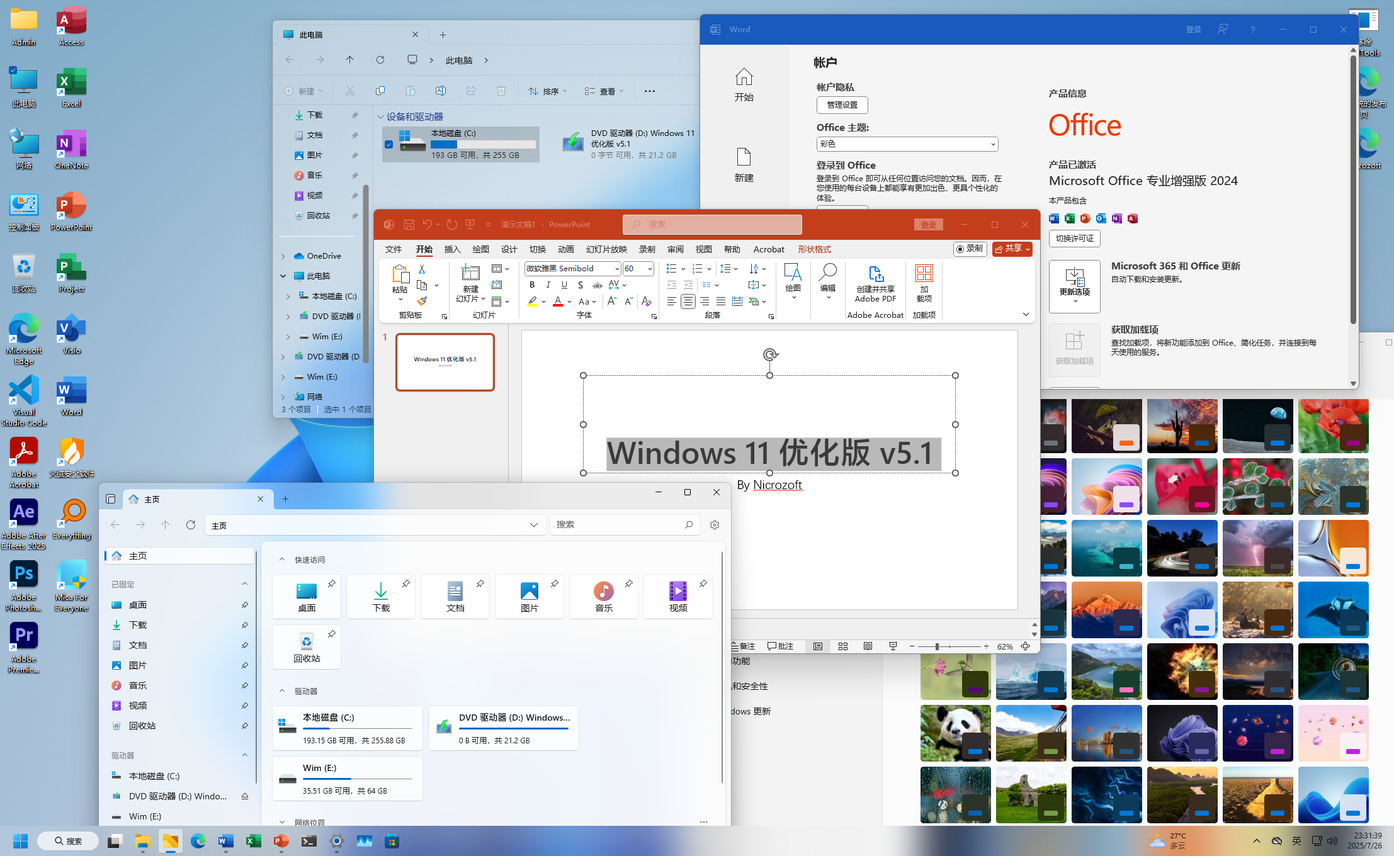
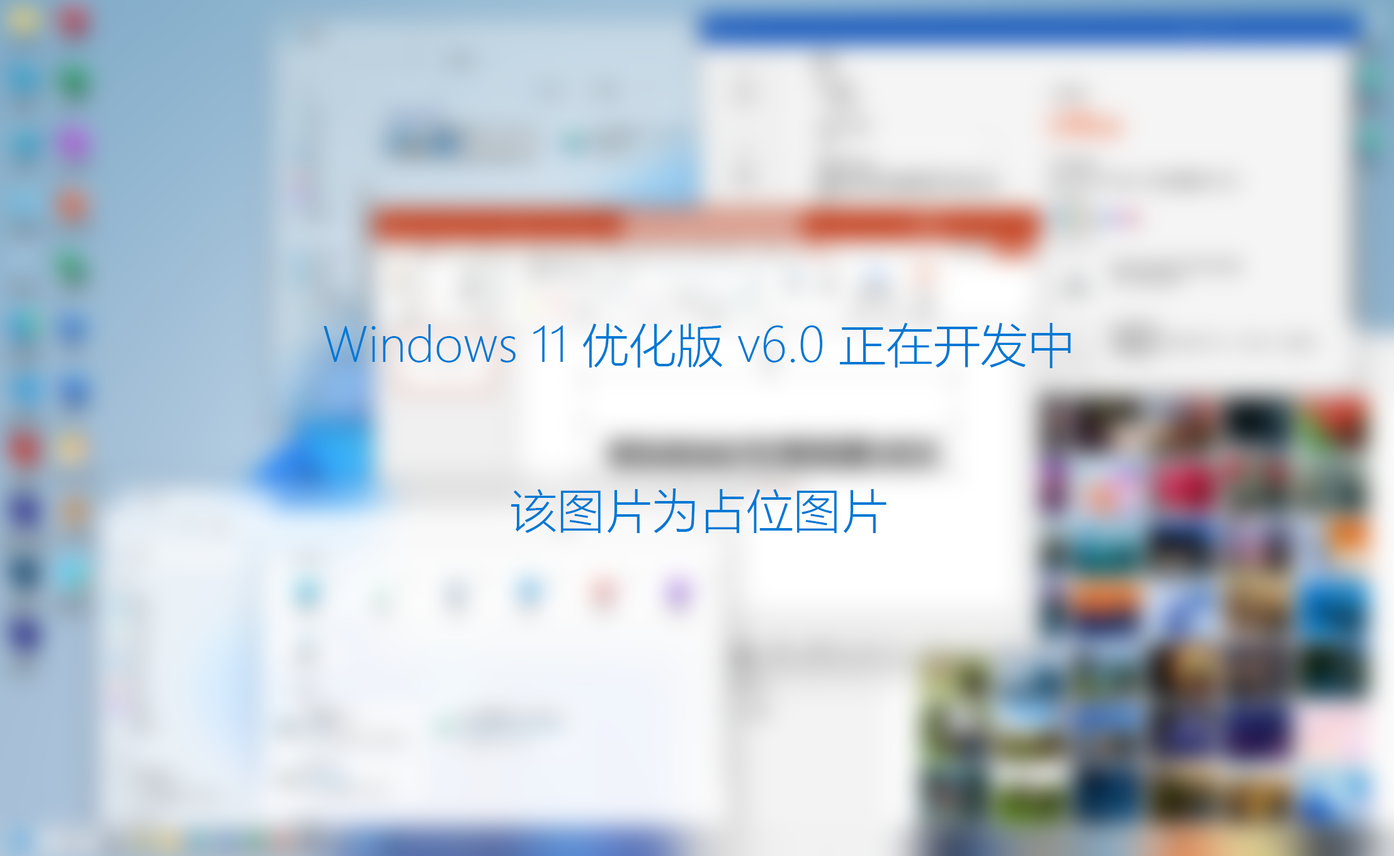
Update Files

diff --git a/win11ext.html b/win11ext.html
@@ -10,24 +10,25 @@
     <link rel="shortcut icon" type="image/png" href="img/NZ.ico">
 </head>
 <body>
-    <!-- Page Loader -->
-    <div id="loader-wrapper">
-        <div id="loader"></div>
+<!-- Page Loader -->
+<div id="loader-wrapper">
+    <div id="loader"></div>
 
-        <div class="loader-section section-left"></div>
-        <div class="loader-section section-right"></div>
+    <div class="loader-section section-left"></div>
+    <div class="loader-section section-right"></div>
 
-    </div>
-                            
-    <nav class="navbar navbar-expand-lg">
-        <div class="container-fluid">
-            <a class="navbar-brand" href="#">
-                Nicrozoft
-            </a>
-            <button class="navbar-toggler" type="button" data-toggle="collapse" data-target="#navbarSupportedContent" aria-controls="navbarSupportedContent" aria-expanded="false" aria-label="Toggle navigation">
-                <i class="fas fa-bars"></i>
-            </button>
-            <div class="collapse navbar-collapse" id="navbarSupportedContent">
+</div>
+
+<nav class="navbar navbar-expand-lg">
+    <div class="container-fluid">
+        <a class="navbar-brand" href="#">
+            Nicrozoft
+        </a>
+        <button class="navbar-toggler" type="button" data-toggle="collapse" data-target="#navbarSupportedContent"
+                aria-controls="navbarSupportedContent" aria-expanded="false" aria-label="Toggle navigation">
+            <i class="fas fa-bars"></i>
+        </button>
+        <div class="collapse navbar-collapse" id="navbarSupportedContent">
             <ul class="navbar-nav ml-auto mb-2 mb-lg-0">
                 <li class="nav-item">
                     <a class="nav-link nav-link-1" aria-current="page" href="index.html">主页</a>
@@ -54,144 +55,221 @@
                     <a class="nav-link" href="javascript:window.history.back(-1)" target="_self">返回</a>
                 </li>
             </ul>
-            </div>
         </div>
-    </nav>
-
-    <div class="tm-hero d-flex justify-content-center align-items-center" data-parallax="scroll" data-image-src="img/BG.jpg">
     </div>
+</nav>
 
-    <div class="container-fluid tm-container-content tm-mt-60">
-        <div class="row mb-4">
-            <h2 class="col-12 tm-text-primary">Windows 11 优化版 v5.1</h2>
+<div class="tm-hero d-flex justify-content-center align-items-center" data-parallax="scroll"
+     data-image-src="img/BG.jpg">
+</div>
+
+<div class="container-fluid tm-container-content tm-mt-60">
+    <div class="row mb-4">
+        <h2 class="col-12 tm-text-primary">Windows 11 优化版</h2>
+    </div>
+    <div class="row tm-mb-90">
+        <div class="col-xl-8 col-lg-7 col-md-6 col-sm-12">
+            <img src="img/windows11ext.png" alt="Image" class="img-fluid">
         </div>
-        <div class="row tm-mb-90">
-            <div class="col-xl-8 col-lg-7 col-md-6 col-sm-12">
-                <img src="img/windows11ext.png" alt="Image" class="img-fluid">
-            </div>
-            <div class="col-xl-4 col-lg-5 col-md-6 col-sm-12">
-                <div class="tm-bg-gray tm-video-details">
-                    <p class="mb-4">
-                        Windows 11 优化版 64位。<br>系统基于 Windows 11 24H2 专业工作站版。<br>此系统并不基于任何其他修改版。除安装程序外, 也没有参考其他任何修改版。只有安装程序使用了 Rectify 11 的部分文件。<br>此系统使用 Dism 封装，并使用 Wimlib-ImageX (1.0 使用 Dism++) 将镜像转为 ESD 格式并添加卷信息。我们坚决抵制任何流氓软件！抵制流氓封装工具 Easy Sysprep！<br>系统更改：<br>1.添加了 77 个主题。<br>2.永久激活了系统。<br>3.调整了桌面图标。<br>4.默认显示文件扩展名。<br>5.安装了 Microsoft Office Professional Plus 2021 并使用 Ohook 模式永久激活（非 KMS）。<br>6.安装了 Visual Studio Code, PowerToys, Files App, Dev Home。<br>7.为 VSCode 安装了 Python, C++, Code Runner 插件。<br>8.安装了 Mica for Everyone。<br>9.安装了火绒安全软件。<br>10.安装程序样式大幅调整。<br>11.为 Edge 安装了 Adguard 插件。<br>12.【2.0 内容】新增 8 个主题, 其中包含 “Nebulas in 4K” 主题。<br>13.【2.0 内容】修复了 Mica for Everyone 无法启动的问题。<br>14.【2.0 内容】更新了 Files App。<br>15.【2.0 内容】将 Files App 设为默认资源管理器。<br>16.【2.0 内容】安装了 Adobe Photoshop 2023。<br>17.【2.0 内容】为 Edge 设置了圆角标签页。<br>18.【2.0 内容】一些系统和应用设置微调。<br>19.【3.0 内容】安装了新版微软雅黑 (11.3.0)。<br>20.【3.0 内容】安装了 translucentTB 并将任务栏设为 Acrylic 半透明。<br>21.【3.0 内容】安装了 ExplorerBlurMica，将资源管理器设为全窗口 Acrylic。<br>22.【3.0 内容】更新了系统、VSCode、PowerToys 和大量 Microsoft Store 应用。<br>23.【3.0 内容】安装了画图 3D。<br>24.【3.0 内容】添加了华为 MateBook 16s 的 OEM 主题。<br>25.【3.0 内容】为 Microsoft Edge 开启了 Mica 效果，并设置了垂直标签页。<br>26.【4.0 内容】更新了系统和软件。<br>27.【4.0 内容】安装了 Visio 和 Project 并永久激活。<br>28.【4.0 内容】调整了资源管理器透明度以保证文字清晰可见。<br>29.【4.0 内容】安装了 Adobe Photoshop 2024（25.9）。（之前的版本为 2023）<br>30.【4.0 内容】优化了字体设置，使字体观感更加舒适，同时修复了字号重复的问题。<br>31.【4.0 内容】安装了火绒安全软件 6.0。32.【5.0 内容】更新系统版本至 24H2 的 2025 01 累积更新。<br>33.【5.0 内容】更新系统的各个软件至最新版本。<br>34.【5.0 内容】将微软雅黑的 Regular，Light，Bold 三个字号恢复至原版。<br>35.【5.0 内容】安装 Adobe Acrobat 2024 和 Adobe Premiere 2024。<br>36.【5.0 内容】添加 Windows Server 2025 和 Microsoft Community 的主题。<br>37.【5.0 内容】内置一个工具，用于在物理机安装后移除 VMware Tools 并清理导致计算机被误判为虚拟机的注册表，放置在桌面右上角，该程序开源至 Github。<br>38.【5.0 内容】内置了常用文件搜索软件 Everything。<br>39.【5.1 内容】更新了系统和大部分软件。<br>40.【5.1 内容】将 Office 升级至 Office 2024 专业增强版。<br>41.【5.1 内容】将 Adobe 软件（Acrobat Pro、Photoshop、Premiere）升级至 2025 版本，同时加装 After Effects。<br>42.【5.1 内容】集成了所有版本的 Microsoft Visual C++ Runtime。<br><br>该镜像并没有设置跳过 Windows 11 硬件检查的内容。因此你的计算机(或虚拟机)必须满足 Windows 11 硬件要求。<br>如果你确实要在不满足 Windows 11 硬件要求的计算机上安装该系统，你需要按 Shift+F10, 然后输入 SkipCheck (这是 Nicrozoft 在 boot.wim\Windows\System32 下放置的一个 bat 脚本，用于跳过硬件检查), 就可以继续安装了。<br><br><font color="#FF0000">© Nicrozoft Corporation, 保留所有权利。<br>未经 Nicrozoft 允许, 禁止转载或修改, 否则 Nicrozoft 必将追究！</font>
-                    </p>
-                    <h5 class="text-center mb-4"><font color="#0078D4">
-                        以下为 5.1 版本的【镜像】文件，文件格式为[.iso]
-                    </font></h5>
-                    <h5 class="text-center mb-4"><font color="#FF0000">
-                        请注意：123 网盘链接的文件可以在手机端免费下载！请不要白白给网盘送钱！<br>如果你喜欢我的产品，想要赞助支持我，请在我的 B 站主页为我充电！
-                    </font></h5>
-                    <div class="text-center mb-5">
-                        <a href="checksums/win11ext_5.1_iso.txt" class="btn btn-primary tm-btn-big">查看文件校验和</a>
-                    </div>
-                    <div class="text-center mb-5">
-                        <a href="https://ntdrv.link/d/shared/Software/Nicrozoft/Windows_11_Extended_ProfessionalWorkstation_v5.1_Nicrozoft.iso" class="btn btn-primary tm-btn-big">NTDrv 网盘链接</a>
-                    </div>
-                    <div class="text-center mb-5">
-                        <a href="https://www.123912.com/s/kb7cjv-bHve3" class="btn btn-primary tm-btn-big">123 网盘链接</a>
-                    </div>
-                    <div class="text-center mb-5">
-                        <a href="https://www.123865.com/s/kb7cjv-bHve3" class="btn btn-primary tm-btn-big">123 网盘链接 （备用链接）</a>
-                    </div>
-                    <br><br>
-                    <div class="text-center mb-5">
-                        <a href="img/windows11ext.png" class="btn btn-primary tm-btn-big">下载 5.1 系统截图</a>
-                    </div>
-                    <br><br>
-                    <div class="text-center mb-5">
-                        <a href="https://www.bilibili.com/video/BV1gs8hzaELm" class="btn btn-primary tm-btn-big">观看该系统的 5.1 版本的介绍及演示视频<br>（记得点赞投币收藏关注）</a>
-                    </div>
-                    <h5 class="text-center mb-4"><font color="#0078D4">
-                        以下是早期版本的内容
-                    </font></h5>
-                    <h5 class="text-center mb-4"><font color="#0078D4">
-                        以下为 5.0.1 版本的【镜像】文件，文件格式为[.iso]
-                    </font></h5>
-                    <h5 class="text-center mb-4"><font color="#FF0000">
-                        相对于 5.0 版本，5.0.1 版本仅是修复了安装程序的一些问题，系统功能完全相同，因此已安装 5.0 的用户不需要安装 5.0.1。
-                    </font></h5>
-                    <div class="text-center mb-5">
-                        <a href="checksums/win11ext_5.0.1_iso.txt" class="btn btn-primary tm-btn-big">查看文件校验和</a>
-                    </div>
-                    <div class="text-center mb-5">
-                        <a href="https://pan.huang1111.cn/s/GmNgFW?path=%2Fwin11ext%2Fv5.0.1%2FISO" class="btn btn-primary tm-btn-big">huang1111 网盘链接</a>
-                    </div>
-                    <div class="text-center mb-5">
-                        <a href="https://pan.quark.cn/s/f238528f69a4" class="btn btn-primary tm-btn-big">夸克网盘链接</a>
-                    </div>
-                    <div class="text-center mb-5">
-                        <a href="https://www.123912.com/s/kb7cjv-ZiVc3" class="btn btn-primary tm-btn-big">123 网盘链接</a>
-                    </div>
-                    <div class="text-center mb-5">
-                        <a href="https://www.123865.com/s/kb7cjv-ZiVc3" class="btn btn-primary tm-btn-big">123 网盘链接 （备用链接）</a>
-                    </div>
-                    <br><br>
-                    <div class="text-center mb-5">
-                        <a href="https://www.bilibili.com/video/BV1difDY4EBa/" class="btn btn-primary tm-btn-big">观看该系统的 5.0 版本的介绍及演示视频<br>（记得点赞投币收藏关注）</a>
-                    </div>
-                    <br><br>
-                    <h5 class="text-center mb-4"><font color="#FF0000">
-                        4.0 及更早版本的产品文件已遗失，不可下载。
-                    </font></h5>
-                    <p class="mb-4">
-                        十分感谢 WinBetaUser 在 bilibili 上测评了该系统。
-                    </p>
-                    <div class="text-center mb-5">
-                        <a href="https://www.bilibili.com/video/BV1Lx4y1S73H" class="btn btn-primary tm-btn-big">观看 WinBetaUser 为此系统的 3.0 版本制作的测评视频<br>（记得点赞投币收藏关注）</a>
-                    </div>
-                    <div class="text-center mb-5">
-                        <a href="https://www.bilibili.com/video/BV1694y1g7yP" class="btn btn-primary tm-btn-big">观看 WinBetaUser 为此系统的 2.0 版本制作的测评视频<br>（记得点赞投币收藏关注）</a>
-                    </div>
+        <div class="col-xl-4 col-lg-5 col-md-6 col-sm-12">
+            <div class="tm-bg-gray tm-video-details">
+                <h4 class="text-center mb-4"><font color="#0078D4">
+                    Windows 11 优化版 x64<br>25H2 专业工作站版 v6.0
+                </font></h4>
+                <p class="mb-4">
+                    该系统在 v6.0 版本重制，从原版系统重新制作，重制后分为完整版本和基本版本，完整版本与重制前相似，但对系统进一步优化；
+                    基本版本未预装 Office、Adobe 等大型软件，仅预装系统优化必要的软件，具有更小的体积。<br>
+                    此系统并不基于任何其他修改版。除安装程序外,也没有参考其他任何修改版。只有安装程序使用了 Rectify 11 的部分文件，
+                    使其更加美观。同时该版本修复了安装程序启动管理器被吊销的问题。<br>
+                    此系统使用 Windows 部署映像服务和管理工具 (Dism) 封装，并使用
+                    Wimlib-ImageX 将镜像转为 ESD 格式并添加卷信息。<br>
+                    系统更改:<br>
+                    1.添加 80+ 个主题。<br>
+                    2.集成了所有版本的 Microsoft Visual C++ Runtime。<br>
+                    3.系统设置微调。<br>
+                    4.为 Edge 添加了 Adguard 和 Tampermonkey 插件。<br>
+                    5.安装了 ExplorerBlurMica，将资源管理器设为全窗口 Acrylic。<br>
+                    6.安装了 Mica for Everyone，为各种窗口的框架设置为 Acrylic 材质。<br>
+                    7.安装了新版微软雅黑 (11.3.0) 的 SemiBold、SemiLight、Heavy 三个字号。<br>
+                    8.安装了 translucentTB 并将任务栏设为 Acrylic 半透明。<br>
+                    9.集成了 .NET 8.0 和 9.0，以及 .NET Framework 4.8.1 和 3.5 运行库。<br>
+                    10.安装了 NanaZip（一款基于 7-Zip 并使用 Fluent 设计重构界面的压缩解压缩软件）。<br>
+                    11.调整了 CPU 的调度偏好，提升了性能。<br>
+                    12.内置的激活工具由 HEU 改为 Nicrozoft Activator（基于 MAS）。<br>
+                    完整版额外内容:<br>
+                    1.安装了 Office 2024 专业增强版，并使用 Ohook 模式永久激活。<br>
+                    2.安装了 Adobe 2025 中的 Photoshop、Premiere、After Effects、Acrobat 四款软件。<br>
+                    3.安装了 Files App。<br>
+                    4.安装了 Visual Studio Code 并安装一些插件。<br>
+                    5.安装了 PowerToys。<br>
+                    6.安装了 Everything。<br>
+                    7.集成了 Python 3.12、MinGW 15.1.0 x64 和 MinGW 15.1.0 x86。<br>
+                    <br><font color="#FF0000">© Nicrozoft Dev Group,
+                    保留所有权利。<br>未经 Nicrozoft 允许, 禁止转载或修改该镜像、视频等内容, 否则 Nicrozoft 必将追究其责任！</font>
+                </p>
+                <div class="text-center mb-5">
+                    <a href="https://afdian.com/a/nicrozoft" class="btn btn-primary tm-btn-big">赞助 Nicrozoft</a>
+                </div>
+                <div class="text-center mb-5">
+                    <a href="https://qm.qq.com/q/m8hlYNeNqg" class="btn btn-primary tm-btn-big">参与该版本的内测</a>
+                </div>
+                <h5 class="text-center mb-4"><font color="#0078D4">
+                    以下是重制前版本(1.0 ~ 5.1)的内容，仅供参考。
+                </font></h5>
+                <p class="mb-4">
+                    Windows 11 优化版 64位。<br>系统基于 Windows 11 24H2 专业工作站版。<br>此系统并不基于任何其他修改版。除安装程序外,
+                    也没有参考其他任何修改版。只有安装程序使用了 Rectify 11 的部分文件。<br>此系统使用 Dism 封装，并使用
+                    Wimlib-ImageX (1.0 使用 Dism++) 将镜像转为 ESD 格式并添加卷信息。我们坚决抵制任何流氓软件！抵制流氓封装工具
+                    Easy Sysprep！<br>系统更改：<br>1.添加了 77 个主题。<br>2.永久激活了系统。<br>3.调整了桌面图标。<br>4.默认显示文件扩展名。<br>5.安装了
+                    Microsoft Office Professional Plus 2021 并使用 Ohook 模式永久激活（非 KMS）。<br>6.安装了 Visual Studio
+                    Code, PowerToys, Files App, Dev Home。<br>7.为 VSCode 安装了 Python, C++, Code Runner 插件。<br>8.安装了
+                    Mica for Everyone。<br>9.安装了火绒安全软件。<br>10.安装程序样式大幅调整。<br>11.为 Edge 安装了 Adguard
+                    插件。<br>12.【2.0 内容】新增 8 个主题, 其中包含 “Nebulas in 4K” 主题。<br>13.【2.0 内容】修复了 Mica for
+                    Everyone 无法启动的问题。<br>14.【2.0 内容】更新了 Files App。<br>15.【2.0 内容】将 Files App 设为默认资源管理器。<br>16.【2.0
+                    内容】安装了 Adobe Photoshop 2023。<br>17.【2.0 内容】为 Edge 设置了圆角标签页。<br>18.【2.0
+                    内容】一些系统和应用设置微调。<br>19.【3.0 内容】安装了新版微软雅黑 (11.3.0)。<br>20.【3.0 内容】安装了
+                    translucentTB 并将任务栏设为 Acrylic 半透明。<br>21.【3.0 内容】安装了 ExplorerBlurMica，将资源管理器设为全窗口
+                    Acrylic。<br>22.【3.0 内容】更新了系统、VSCode、PowerToys 和大量 Microsoft Store 应用。<br>23.【3.0
+                    内容】安装了画图 3D。<br>24.【3.0 内容】添加了华为 MateBook 16s 的 OEM 主题。<br>25.【3.0 内容】为
+                    Microsoft Edge 开启了 Mica 效果，并设置了垂直标签页。<br>26.【4.0 内容】更新了系统和软件。<br>27.【4.0
+                    内容】安装了 Visio 和 Project 并永久激活。<br>28.【4.0
+                    内容】调整了资源管理器透明度以保证文字清晰可见。<br>29.【4.0 内容】安装了 Adobe Photoshop
+                    2024（25.9）。（之前的版本为 2023）<br>30.【4.0 内容】优化了字体设置，使字体观感更加舒适，同时修复了字号重复的问题。<br>31.【4.0
+                    内容】安装了火绒安全软件 6.0。32.【5.0 内容】更新系统版本至 24H2 的 2025 01 累积更新。<br>33.【5.0
+                    内容】更新系统的各个软件至最新版本。<br>34.【5.0 内容】将微软雅黑的 Regular，Light，Bold 三个字号恢复至原版。<br>35.【5.0
+                    内容】安装 Adobe Acrobat 2024 和 Adobe Premiere 2024。<br>36.【5.0 内容】添加 Windows Server 2025 和
+                    Microsoft Community 的主题。<br>37.【5.0 内容】内置一个工具，用于在物理机安装后移除 VMware Tools
+                    并清理导致计算机被误判为虚拟机的注册表，放置在桌面右上角，该程序开源至 Github。<br>38.【5.0
+                    内容】内置了常用文件搜索软件 Everything。<br>39.【5.1 内容】更新了系统和大部分软件。<br>40.【5.1 内容】将
+                    Office 升级至 Office 2024 专业增强版。<br>41.【5.1 内容】将 Adobe 软件（Acrobat
+                    Pro、Photoshop、Premiere）升级至 2025 版本，同时加装 After Effects。<br>42.【5.1 内容】集成了所有版本的
+                    Microsoft Visual C++ Runtime。<br><br>该镜像并没有设置跳过 Windows 11 硬件检查的内容。因此你的计算机(或虚拟机)必须满足
+                    Windows 11 硬件要求。<br>如果你确实要在不满足 Windows 11 硬件要求的计算机上安装该系统，你需要按
+                    Shift+F10, 然后输入 SkipCheck (这是 Nicrozoft 在 boot.wim\Windows\System32 下放置的一个 bat
+                    脚本，用于跳过硬件检查), 就可以继续安装了。<br><br><font color="#FF0000">© Nicrozoft Corporation,
+                    保留所有权利。<br>未经 Nicrozoft 允许, 禁止转载或修改, 否则 Nicrozoft 必将追究！</font>
+                </p>
+                <h5 class="text-center mb-4"><font color="#0078D4">
+                    以下为 5.1 版本的【镜像】文件，文件格式为[.iso]
+                </font></h5>
+                <h5 class="text-center mb-4"><font color="#FF0000">
+                    请注意：123 网盘链接的文件可以在手机端免费下载！请不要白白给网盘送钱！<br>如果你喜欢我的产品，想要赞助支持我，请在我的
+                    B 站主页为我充电！
+                </font></h5>
+                <div class="text-center mb-5">
+                    <a href="checksums/win11ext_5.1_iso.txt" class="btn btn-primary tm-btn-big">查看文件校验和</a>
+                </div>
+                <div class="text-center mb-5">
+                    <a href="https://ntdrv.link/d/shared/Software/Nicrozoft/Windows_11_Extended_ProfessionalWorkstation_v5.1_Nicrozoft.iso"
+                       class="btn btn-primary tm-btn-big">NTDrv 网盘链接</a>
+                </div>
+                <div class="text-center mb-5">
+                    <a href="https://www.123912.com/s/kb7cjv-bHve3" class="btn btn-primary tm-btn-big">123 网盘链接</a>
+                </div>
+                <div class="text-center mb-5">
+                    <a href="https://www.123865.com/s/kb7cjv-bHve3" class="btn btn-primary tm-btn-big">123 网盘链接
+                        （备用链接）</a>
+                </div>
+                <br><br>
+                <div class="text-center mb-5">
+                    <a href="https://www.bilibili.com/video/BV1gs8hzaELm" class="btn btn-primary tm-btn-big">观看该系统的
+                        5.1 版本的介绍及演示视频<br>（记得点赞投币收藏关注）</a>
+                </div>
+                <h5 class="text-center mb-4"><font color="#0078D4">
+                    以下为 5.0.1 版本的【镜像】文件，文件格式为[.iso]
+                </font></h5>
+                <h5 class="text-center mb-4"><font color="#FF0000">
+                    相对于 5.0 版本，5.0.1 版本仅是修复了安装程序的一些问题，系统功能完全相同，因此已安装 5.0 的用户不需要安装
+                    5.0.1。
+                </font></h5>
+                <div class="text-center mb-5">
+                    <a href="checksums/win11ext_5.0.1_iso.txt" class="btn btn-primary tm-btn-big">查看文件校验和</a>
+                </div>
+                <div class="text-center mb-5">
+                    <a href="https://pan.huang1111.cn/s/GmNgFW?path=%2Fwin11ext%2Fv5.0.1%2FISO"
+                       class="btn btn-primary tm-btn-big">huang1111 网盘链接</a>
+                </div>
+                <div class="text-center mb-5">
+                    <a href="https://pan.quark.cn/s/f238528f69a4" class="btn btn-primary tm-btn-big">夸克网盘链接</a>
+                </div>
+                <div class="text-center mb-5">
+                    <a href="https://www.123912.com/s/kb7cjv-ZiVc3" class="btn btn-primary tm-btn-big">123 网盘链接</a>
+                </div>
+                <div class="text-center mb-5">
+                    <a href="https://www.123865.com/s/kb7cjv-ZiVc3" class="btn btn-primary tm-btn-big">123 网盘链接
+                        （备用链接）</a>
+                </div>
+                <br><br>
+                <div class="text-center mb-5">
+                    <a href="https://www.bilibili.com/video/BV1difDY4EBa/" class="btn btn-primary tm-btn-big">观看该系统的
+                        5.0 版本的介绍及演示视频<br>（记得点赞投币收藏关注）</a>
+                </div>
+                <br><br>
+                <h5 class="text-center mb-4"><font color="#FF0000">
+                    4.0 及更早版本的产品文件已遗失，不可下载。
+                </font></h5>
+                <p class="mb-4">
+                    十分感谢 WinBetaUser 在 bilibili 上测评了该系统。
+                </p>
+                <div class="text-center mb-5">
+                    <a href="https://www.bilibili.com/video/BV1Lx4y1S73H" class="btn btn-primary tm-btn-big">观看
+                        WinBetaUser 为此系统的 3.0 版本制作的测评视频<br>（记得点赞投币收藏关注）</a>
+                </div>
+                <div class="text-center mb-5">
+                    <a href="https://www.bilibili.com/video/BV1694y1g7yP" class="btn btn-primary tm-btn-big">观看
+                        WinBetaUser 为此系统的 2.0 版本制作的测评视频<br>（记得点赞投币收藏关注）</a>
                 </div>
             </div>
         </div>
-        <div class="row mb-4">
-            <h2 class="col-12 tm-text-primary">
-                安装程序截图
-            </h2>
+    </div>
+    <div class="row mb-4">
+        <h2 class="col-12 tm-text-primary">
+            安装程序截图
+        </h2>
+    </div>
+    <div class="row mb-3 tm-gallery">
+        <div class="col-xl-3 col-lg-4 col-md-6 col-sm-6 col-12 mb-5">
+            <figure class="effect-ming tm-video-item">
+                <img src="img/win11ext_1.png" alt="Image" class="img-fluid">
+                <figcaption class="d-flex align-items-center justify-content-center">
+                    <h2>下载</h2>
+                    <a href="img/win11ext_1.png">View more</a>
+                </figcaption>
+            </figure>
         </div>
-        <div class="row mb-3 tm-gallery">
-            <div class="col-xl-3 col-lg-4 col-md-6 col-sm-6 col-12 mb-5">
-                <figure class="effect-ming tm-video-item">
-                    <img src="img/win11ext_1.png" alt="Image" class="img-fluid">
-                    <figcaption class="d-flex align-items-center justify-content-center">
-                        <h2>下载</h2>
-                        <a href="img/win11ext_1.png">View more</a>
-                    </figcaption>                    
-                </figure>
-            </div>
-            <div class="col-xl-3 col-lg-4 col-md-6 col-sm-6 col-12 mb-5">
-                <figure class="effect-ming tm-video-item">
-                    <img src="img/win11ext_2.png" alt="Image" class="img-fluid">
-                    <figcaption class="d-flex align-items-center justify-content-center">
-                        <h2>下载</h2>
-                        <a href="img/win11ext_2.png">View more</a>
-                    </figcaption>
-                </figure>
-            </div>
-        </div> <!-- row -->
-    </div> <!-- container-fluid, tm-container-content -->
-    <footer class="tm-bg-gray pt-5 pb-3 tm-text-gray tm-footer">
-        <div class="container-fluid tm-container-small">
-            <div class="row">
-                <div class="col-lg-6 col-md-12 col-12 px-5 mb-5">
-                    <h3 class="tm-text-primary mb-4 tm-footer-title">Nicrozoft</h3>
-                    <p>Nicrozoft 是一个技术性组织，拥有很多产品，包括病毒，操作系统，实用工具等。</p>
-                </div>
-            </div>
-            <div class="row">
-                <div class="col-lg-8 col-md-7 col-12 px-5 mb-3">
-                    Copyright © Nicrozoft Corporation. All rights reserved.
-                </div>
+        <div class="col-xl-3 col-lg-4 col-md-6 col-sm-6 col-12 mb-5">
+            <figure class="effect-ming tm-video-item">
+                <img src="img/win11ext_2.png" alt="Image" class="img-fluid">
+                <figcaption class="d-flex align-items-center justify-content-center">
+                    <h2>下载</h2>
+                    <a href="img/win11ext_2.png">View more</a>
+                </figcaption>
+            </figure>
+        </div>
+    </div> <!-- row -->
+</div> <!-- container-fluid, tm-container-content -->
+<footer class="tm-bg-gray pt-5 pb-3 tm-text-gray tm-footer">
+    <div class="container-fluid tm-container-small">
+        <div class="row">
+            <div class="col-lg-6 col-md-12 col-12 px-5 mb-5">
+                <h3 class="tm-text-primary mb-4 tm-footer-title">Nicrozoft</h3>
+                <p>Nicrozoft 是一个技术性组织，拥有很多产品，包括病毒，操作系统，实用工具等。</p>
             </div>
         </div>
-    </footer>
-    
-    <script src="js/plugins.js"></script>
-    <script>
-        $(window).on("load", function() {
-            $('body').addClass('loaded');
-        });
-    </script>
+        <div class="row">
+            <div class="col-lg-8 col-md-7 col-12 px-5 mb-3">
+                Copyright © Nicrozoft Corporation. All rights reserved.
+            </div>
+        </div>
+    </div>
+</footer>
+
+<script src="js/plugins.js"></script>
+<script>
+    $(window).on("load", function () {
+        $('body').addClass('loaded');
+    });
+</script>
 </body>
 </html>
 </html>
